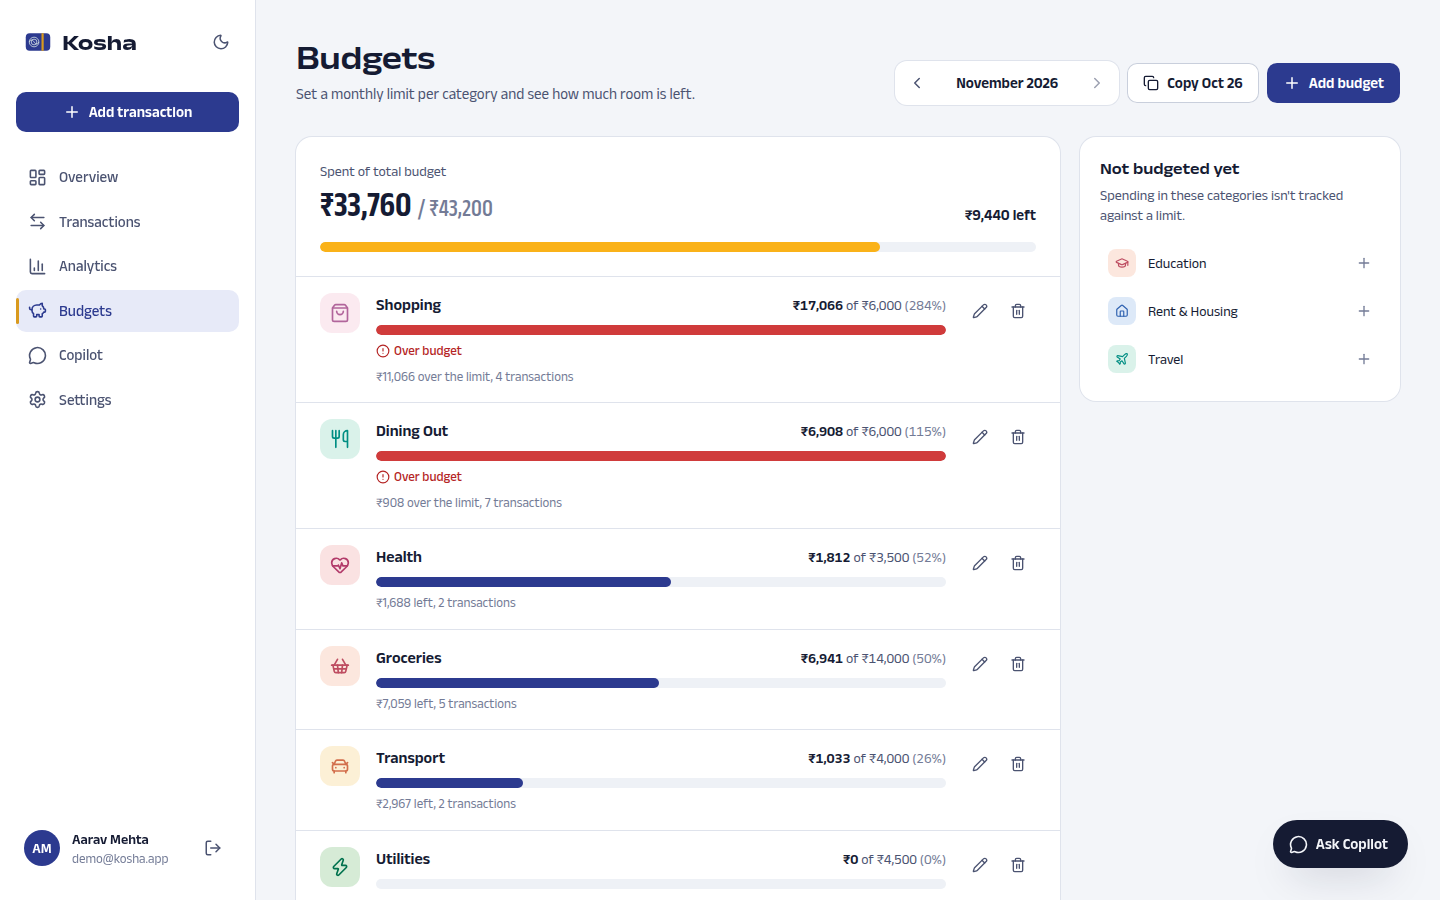
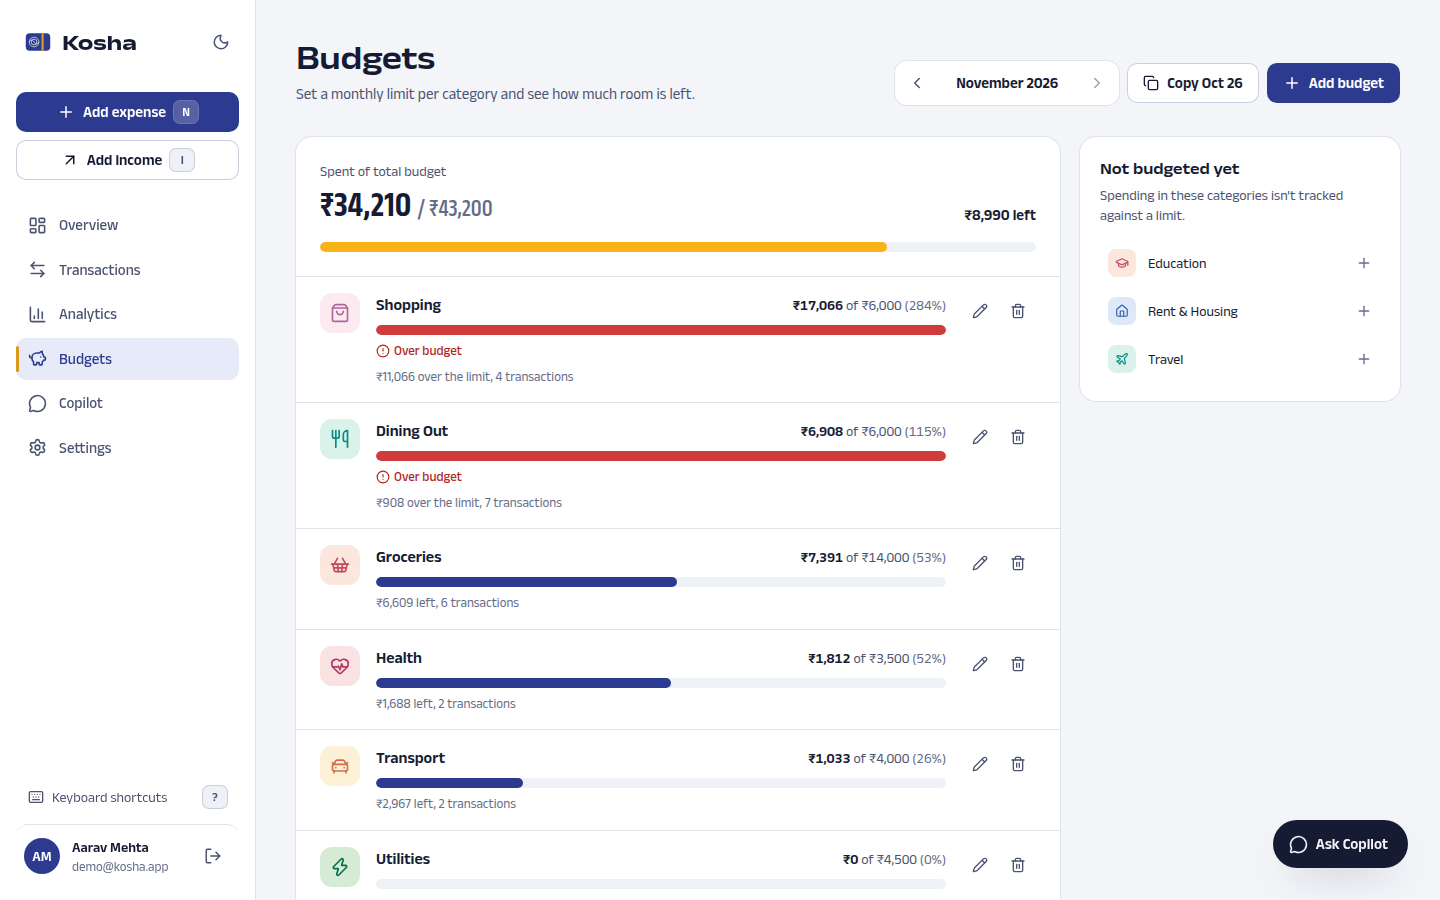
fix(ux): single add button on phones, legible shortcut badge; refresh screenshots and README

diff --git a/client/src/components/layout/AppShell.jsx b/client/src/components/layout/AppShell.jsx
@@ -44,10 +44,11 @@ const SHORTCUTS = [
 const QuickAddContext = createContext({ openAdd: () => {}, openEdit: () => {} });
 export const useQuickAdd = () => useContext(QuickAddContext);
 
-export const Kbd = ({ children, className }) => (
+export const Kbd = ({ children, className, inverse = false }) => (
   <kbd
     className={clsx(
-      'inline-flex min-w-6 items-center justify-center rounded-md bg-surface-2 px-1.5 py-0.5 font-sans text-[0.75rem] font-semibold text-ink-2 ring-1 ring-line-strong',
+      'inline-flex min-w-6 items-center justify-center rounded-md px-1.5 py-0.5 font-sans text-[0.75rem] font-semibold ring-1',
+      inverse ? 'bg-white/20 text-brand-ink ring-white/30' : 'bg-surface-2 text-ink-2 ring-line-strong',
       className,
     )}
   >
@@ -98,7 +99,7 @@ function Sidebar({ onAdd, onShortcuts }) {
               <Plus size={18} aria-hidden />
               Add expense
             </span>
-            <Kbd className="bg-white/15 text-brand-ink ring-white/25">N</Kbd>
+            <Kbd inverse>N</Kbd>
           </Button>
           <Button variant="secondary" className="w-full justify-between" onClick={() => onAdd('income')} title="Shortcut: I">
             <span className="inline-flex items-center gap-2">

diff --git a/client/src/features/dashboard/DashboardPage.jsx b/client/src/features/dashboard/DashboardPage.jsx
@@ -71,14 +71,17 @@ export default function DashboardPage() {
         description={`Here's how ${label} is going.`}
         actions={
           <>
-            <Button variant="secondary" onClick={() => openAdd('income')} className="hidden sm:inline-flex">
-              <ArrowUpRight size={17} aria-hidden />
-              Add income
-            </Button>
-            <Button onClick={() => openAdd('expense')} className="hidden sm:inline-flex">
-              <Plus size={17} aria-hidden />
-              Add expense
-            </Button>
+            {/* On phones the header bar already has "Add expense"; keep this row uncluttered. */}
+            <div className="hidden gap-2 sm:flex">
+              <Button variant="secondary" onClick={() => openAdd('income')}>
+                <ArrowUpRight size={17} aria-hidden />
+                Add income
+              </Button>
+              <Button onClick={() => openAdd('expense')}>
+                <Plus size={17} aria-hidden />
+                Add expense
+              </Button>
+            </div>
             <MonthPicker value={month} onChange={setMonth} />
           </>
         }

diff --git a/e2e/capture-screenshots.js b/e2e/capture-screenshots.js
@@ -202,6 +202,10 @@ async function main() {
       await m.goto(`${BASE}/`);
       await settle(m, 2600);
       await shot(m, 'mobile-dashboard');
+      await m.getByRole('button', { name: 'Account menu' }).click();
+      await m.waitForTimeout(300);
+      await shot(m, 'mobile-menu');
+      await m.keyboard.press('Escape');
       await m.goto(`${BASE}/transactions`);
       await settle(m);
       await shot(m, 'mobile-transactions');

diff --git a/README.md b/README.md
@@ -16,7 +16,25 @@ are saved only after you confirm them.
 - **Budgets:** a monthly limit per category with spent, remaining and status (a heads-up at 75%, over budget past 100%), plus copying last month's budgets.
 - **Kosha Copilot:** plain-language questions ("Where is my money going?", "Compare this month with last month") answered from your data, with inline charts. Say "Spent 450 on groceries yesterday" and it drafts the entry for you to confirm.
 - **Settings:** profile, password, light/dark/system theme, custom categories, and which Copilot engine is active.
-- Responsive from 360 px phones (bottom tab bar) to wide desktops, with keyboard support and a table view for every chart.
+- Responsive from 360 px phones (bottom tab bar and account menu) to wide desktops, with keyboard support and a table view for every chart.
+
+### Designed to be easy to use
+
+- **Getting started checklist:** new accounts see four steps (add income, log an expense, set a budget, ask Copilot) that tick themselves off from real data.
+- **Fast entry:** "Add expense" and "Add income" buttons everywhere. Only the amount and a category are required; categories and payment methods are one-tap chips, the date has Today/Yesterday shortcuts, and the description fills itself from the merchant or category.
+- **Calmer filters:** search, type and a "When" menu (This month, Last month, Last 30 days) up front; everything else under "More filters", with every active filter shown as a removable chip.
+- **Plain-language help:** a "?" next to terms like Savings rate explains what they mean.
+- **Accessible:** WCAG AA text contrast in both themes, labelled controls, visible focus, a show/hide toggle on password fields.
+
+### Keyboard shortcuts
+
+| Key | Action |
+|---|---|
+| `N` | Add an expense |
+| `I` | Add income |
+| `/` | Search transactions |
+| `?` | Show all shortcuts |
+| `Esc` | Close a dialog or menu |
 
 ## Tech stack
 
